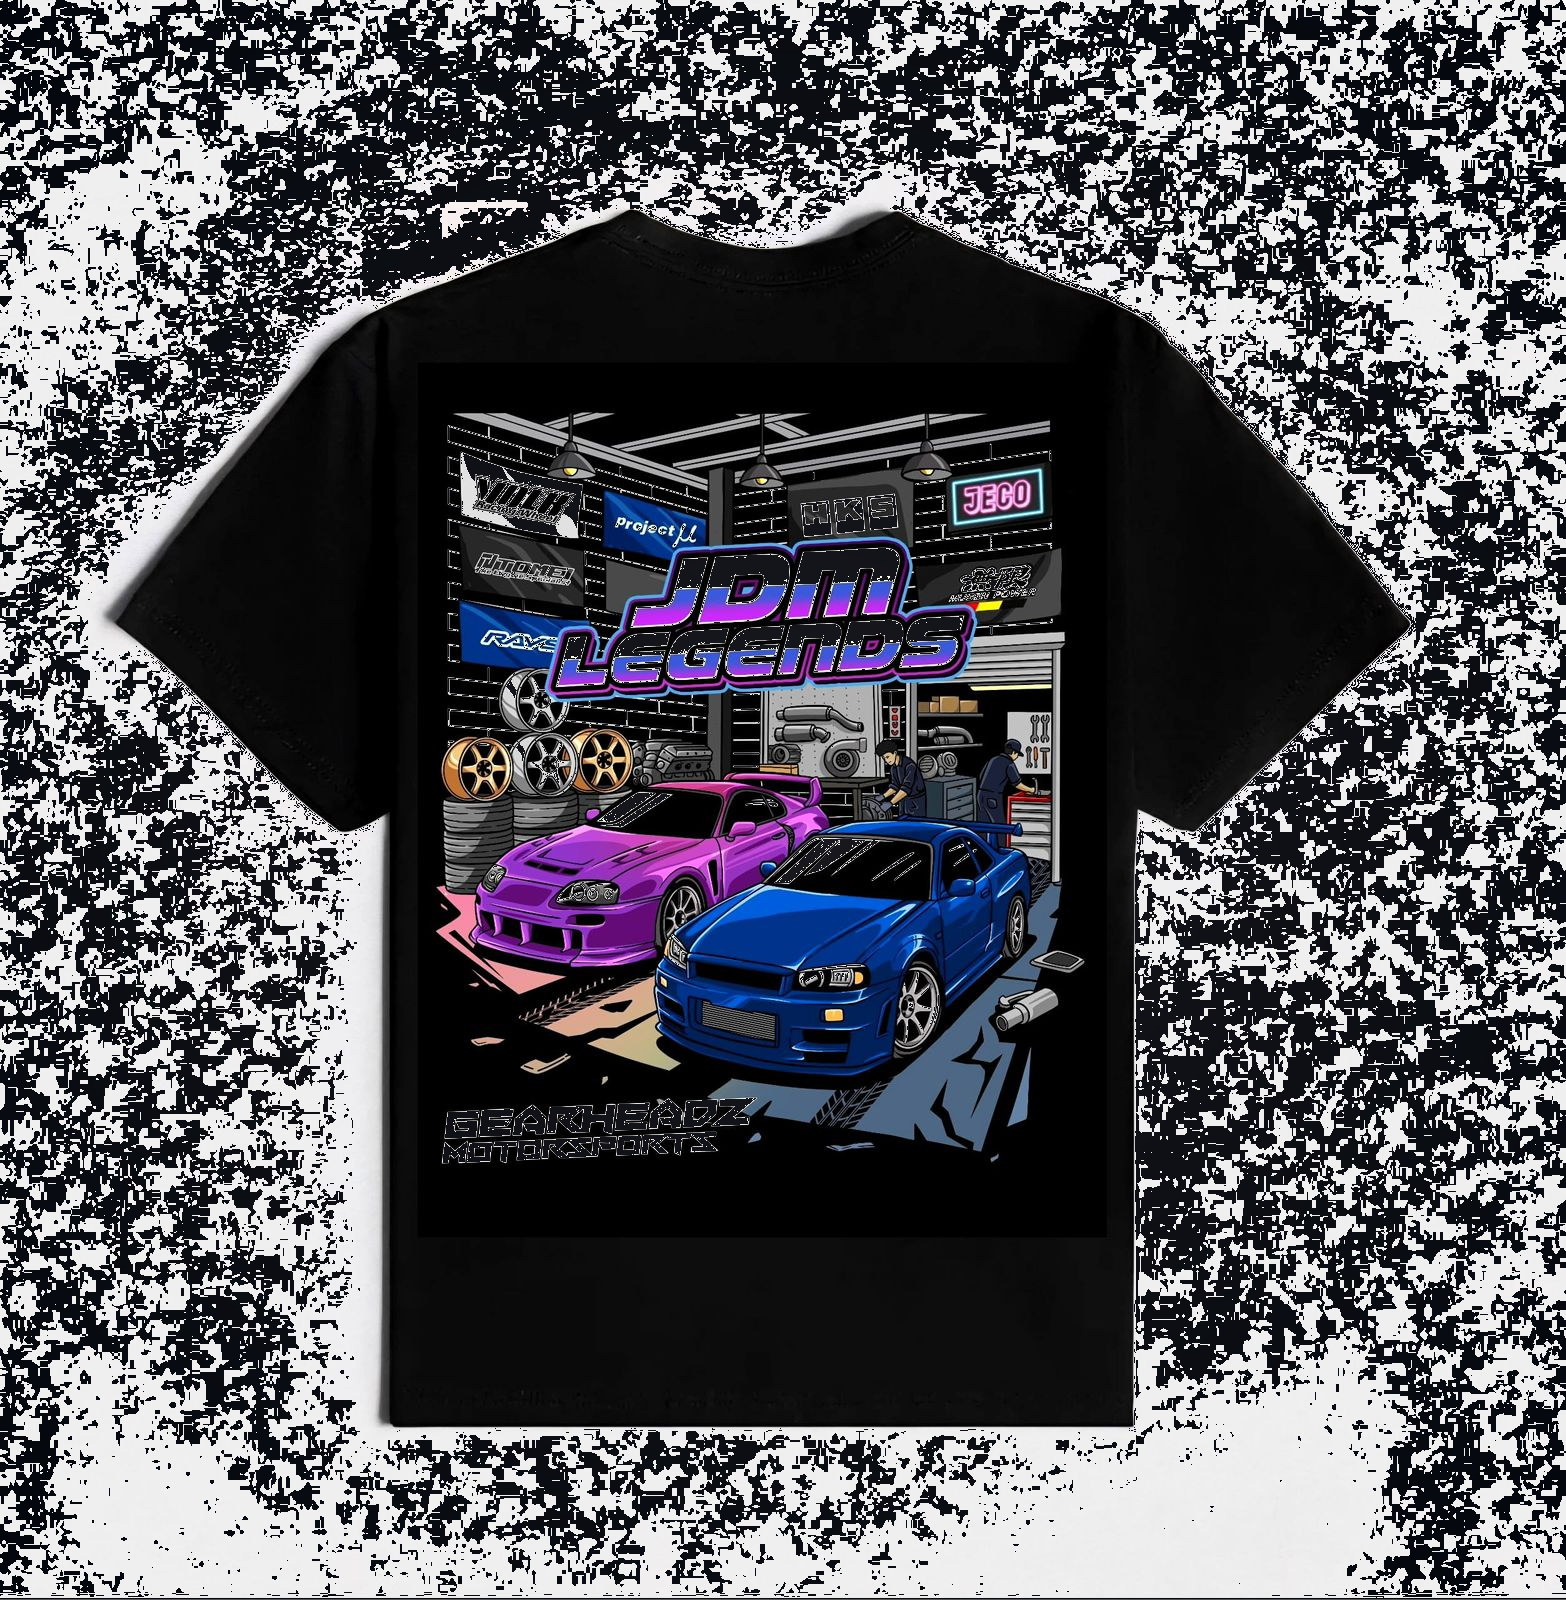
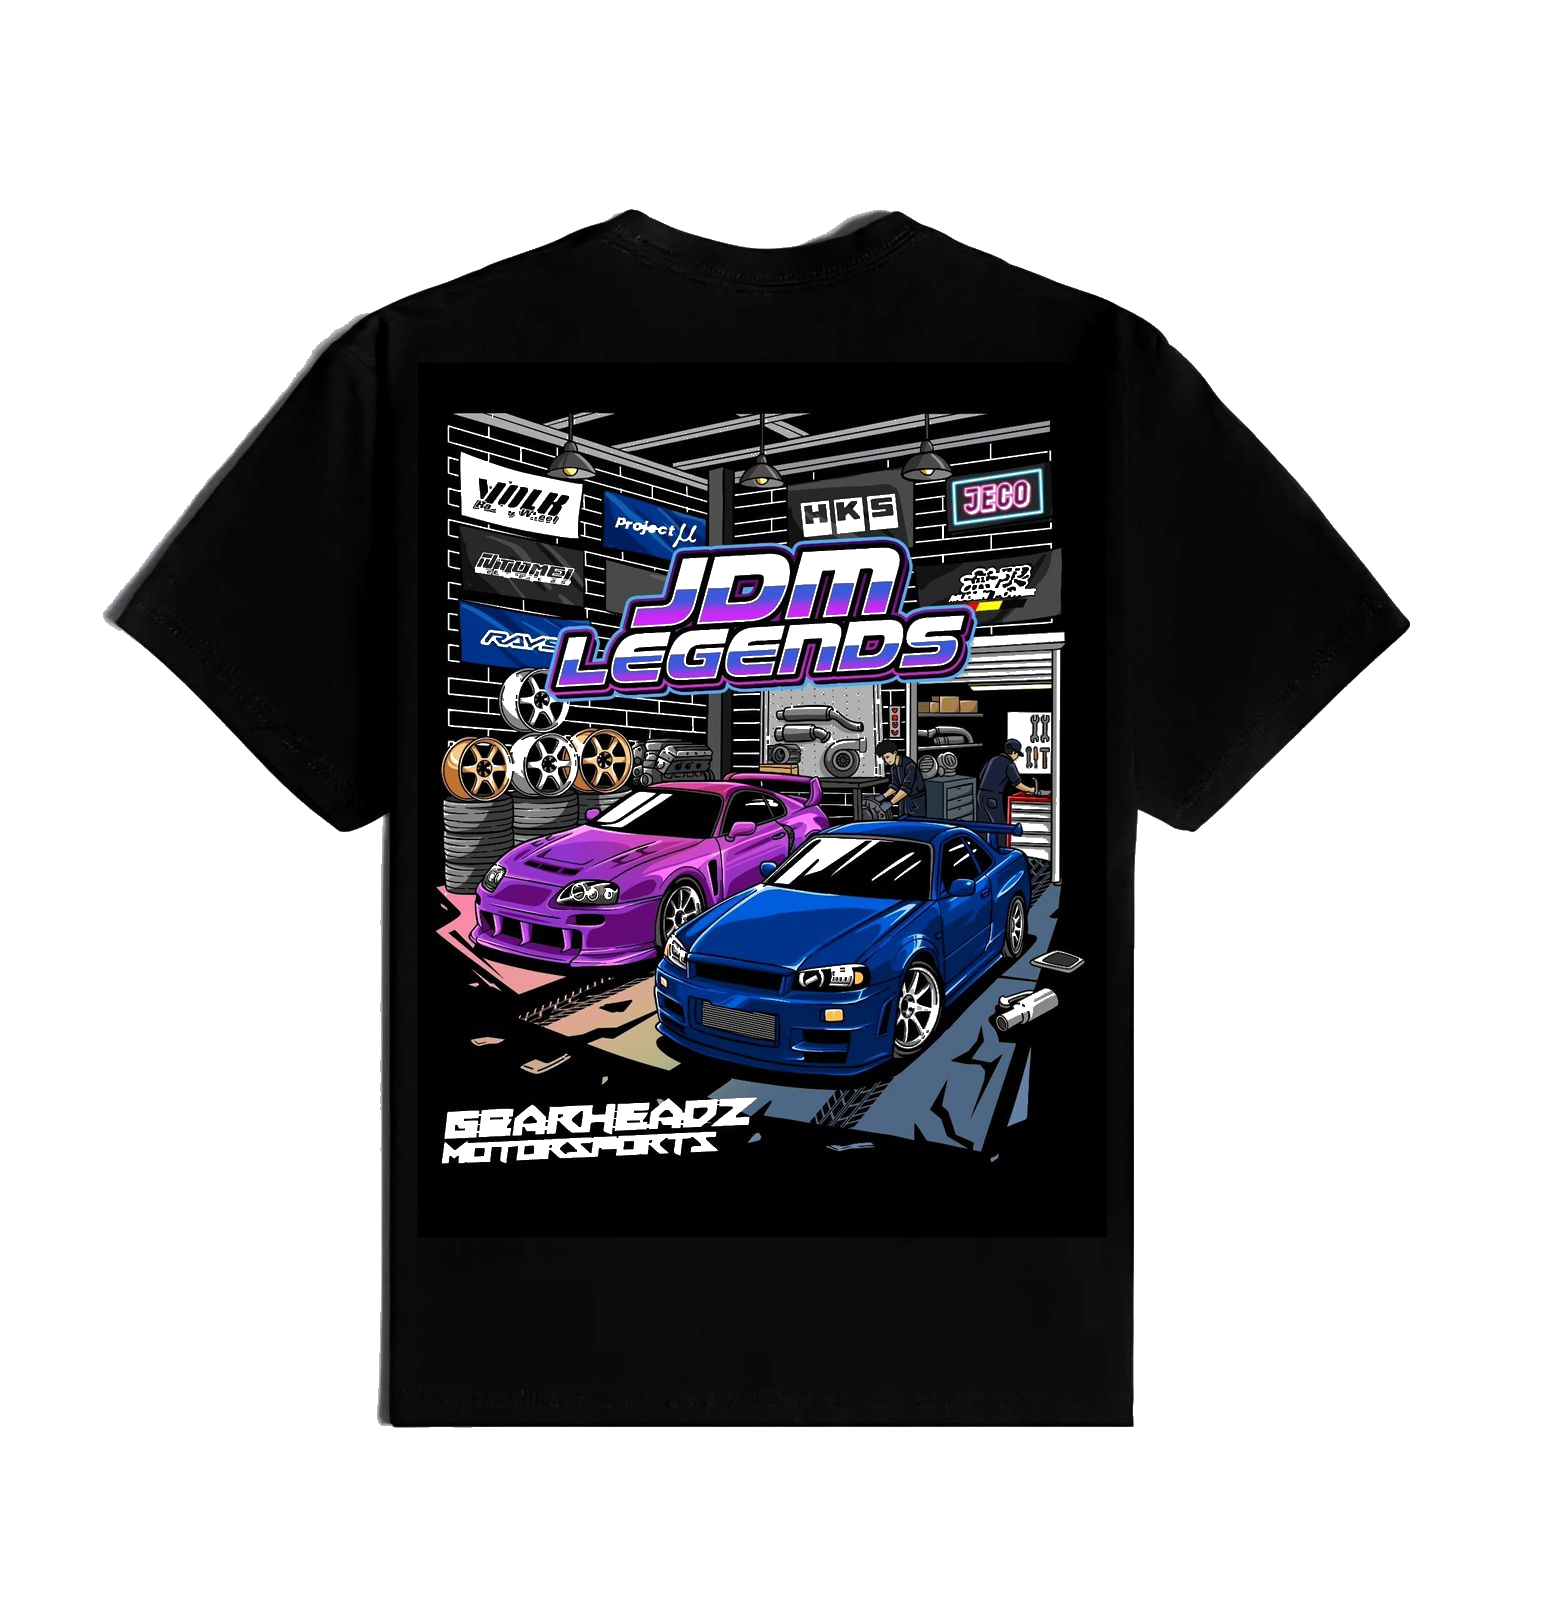
Fix remaining 5 AI backgrounds and compositing

diff --git a/check_fb.js b/check_fb.js
@@ -1,0 +1,19 @@
+import { initializeApp, cert } from 'firebase-admin/app';
+import { getFirestore } from 'firebase-admin/firestore';
+import fs from 'fs';
+
+const serviceAccount = JSON.parse(fs.readFileSync('./gearheadzmotorsport-firebase-adminsdk-fbsvc-59eb5f7475.json', 'utf8'));
+
+initializeApp({ credential: cert(serviceAccount) });
+
+const db = getFirestore();
+
+async function checkDb() {
+    const snap = await db.collection('products').get();
+    for (const doc of snap.docs) {
+        const data = doc.data();
+        console.log(`${data.name} -> ${data.img}`);
+    }
+}
+
+checkDb().catch(console.error);

diff --git a/clear_noise.py b/clear_noise.py
@@ -1,0 +1,40 @@
+import os
+from PIL import Image, ImageFilter
+
+def remove_bg_advanced(path):
+    if not os.path.exists(path):
+        return
+        
+    img = Image.open(path).convert("RGBA")
+    w, h = img.size
+    pixels = img.load()
+    
+    # Sample corner for background color
+    bg_color = pixels[0, 0]
+    
+    for y in range(h):
+        for x in range(w):
+            r, g, b, a = pixels[x, y]
+            # If it's close to the background color, remove it
+            dist = max(abs(r-bg_color[0]), abs(g-bg_color[1]), abs(b-bg_color[2]))
+            if dist < 50 or (r>200 and g>200 and b>200):
+                pixels[x, y] = (0, 0, 0, 0)
+                
+    # Filter alpha to remove noise speckles
+    alpha = img.split()[-1]
+    alpha = alpha.filter(ImageFilter.MinFilter(3)) # erode
+    alpha = alpha.filter(ImageFilter.MaxFilter(3)) # dilate back
+    img.putalpha(alpha)
+    
+    out = path.replace('.png', '-clear.png')
+    img.save(out, "PNG")
+    print(f"Cleared background for {path}")
+
+try:
+    remove_bg_advanced('public/images/products/jdm-legends.png')
+    remove_bg_advanced('public/images/products/jdm-legends-text.png')
+    remove_bg_advanced('public/images/products/turbo-girl.png')
+    remove_bg_advanced('public/images/products/boosted-bowl.png')
+    remove_bg_advanced('public/images/products/boosted-bowl-text.png')
+except Exception as e:
+    print(e)
